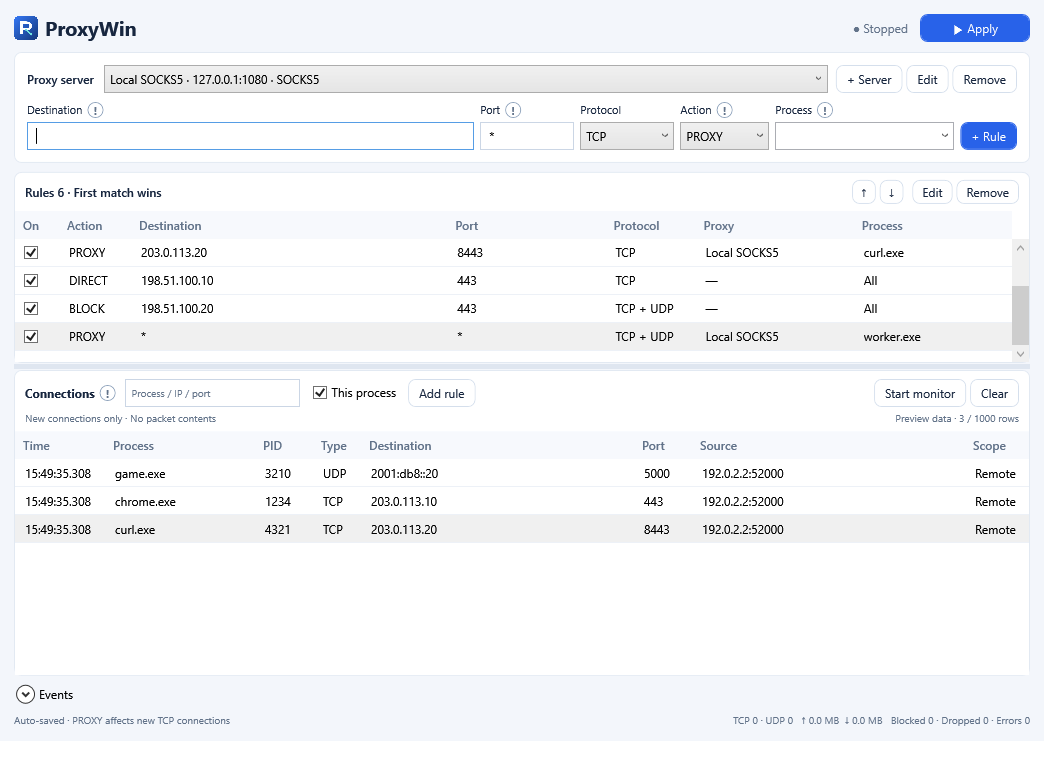
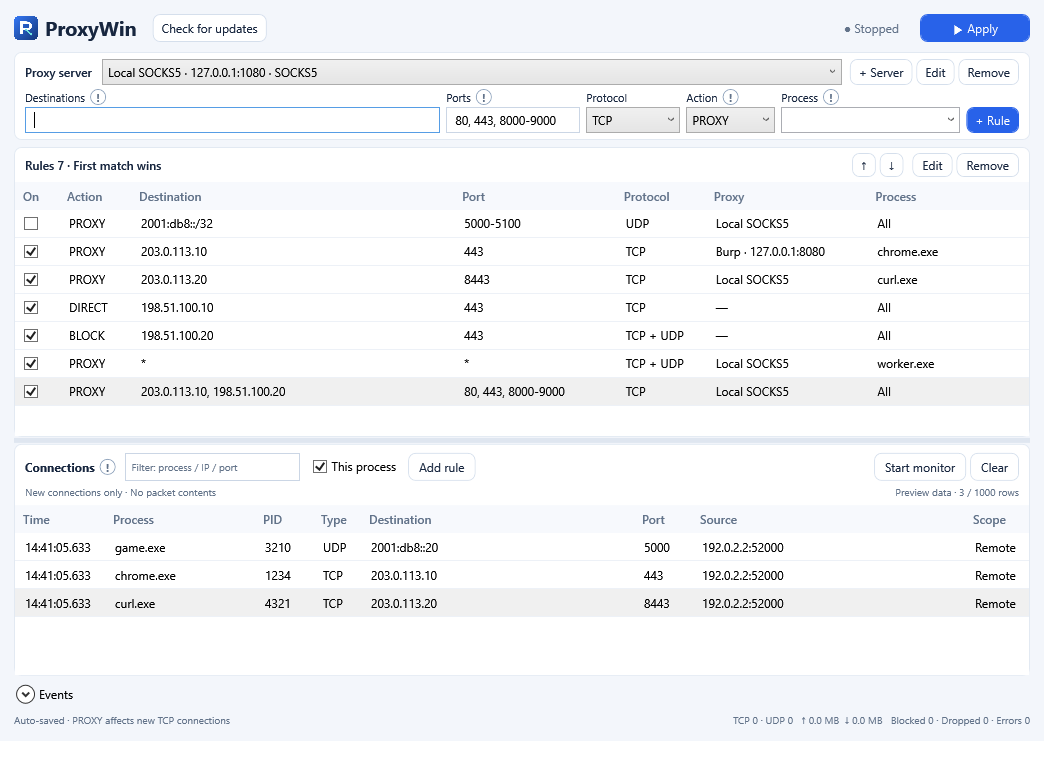
Highlight Active status and expand the rule table with compact inputs (#4)
* Highlight active routing status with a green badge

* Compact rule inputs and give the rule table more space

diff --git a/src/ProxyWin.App/MainWindow.xaml b/src/ProxyWin.App/MainWindow.xaml
@@ -1,37 +1,57 @@
 <Window x:Class="ProxyWin.App.MainWindow" xmlns="http://schemas.microsoft.com/winfx/2006/xaml/presentation" xmlns:x="http://schemas.microsoft.com/winfx/2006/xaml"
         Title="ProxyWin" Width="1060" Height="780" MinWidth="920" MinHeight="680" WindowStartupLocation="CenterScreen" Closing="OnClosing" Style="{StaticResource {x:Type Window}}">
   <Grid Margin="14">
-    <Grid.RowDefinitions><RowDefinition Height="Auto" /><RowDefinition Height="Auto" /><RowDefinition Height="*" MinHeight="100" /><RowDefinition Height="7" /><RowDefinition Height="1.6*" MinHeight="185" /><RowDefinition Height="Auto" /><RowDefinition Height="Auto" /></Grid.RowDefinitions>
+    <Grid.RowDefinitions><RowDefinition Height="Auto" /><RowDefinition Height="Auto" /><RowDefinition Height="1.25*" MinHeight="100" /><RowDefinition Height="7" /><RowDefinition Height="*" MinHeight="185" /><RowDefinition Height="Auto" /><RowDefinition Height="Auto" /></Grid.RowDefinitions>
     <DockPanel Margin="0,0,0,10">
-      <StackPanel DockPanel.Dock="Right" Orientation="Horizontal" HorizontalAlignment="Right"><TextBlock x:Name="StatusText" Text="● Stopped" Foreground="{StaticResource Muted}" VerticalAlignment="Center" Margin="0,0,12,0" /><Button x:Name="ToggleButton" Content="▶ Apply" Style="{StaticResource Primary}" Click="ToggleEngine" MinWidth="110" /></StackPanel>
+      <StackPanel DockPanel.Dock="Right" Orientation="Horizontal" HorizontalAlignment="Right">
+        <Border x:Name="StatusBadge" CornerRadius="12" Padding="10,4" BorderThickness="1" VerticalAlignment="Center" Margin="0,0,10,0">
+          <Border.Style><Style TargetType="Border">
+            <Setter Property="Background" Value="Transparent" /><Setter Property="BorderBrush" Value="Transparent" />
+            <Setter Property="TextElement.Foreground" Value="{StaticResource Muted}" /><Setter Property="TextElement.FontWeight" Value="Normal" />
+            <Style.Triggers>
+              <DataTrigger Binding="{Binding Text, ElementName=StatusText}" Value="● Active">
+                <Setter Property="Background" Value="#DCFCE7" /><Setter Property="BorderBrush" Value="#86EFAC" />
+                <Setter Property="TextElement.Foreground" Value="#166534" /><Setter Property="TextElement.FontWeight" Value="Bold" />
+              </DataTrigger>
+            </Style.Triggers>
+          </Style></Border.Style>
+          <TextBlock x:Name="StatusText" Text="● Stopped" VerticalAlignment="Center" />
+        </Border>
+        <Button x:Name="ToggleButton" Content="▶ Apply" Style="{StaticResource Primary}" Click="ToggleEngine" MinWidth="110" />
+      </StackPanel>
       <StackPanel Orientation="Horizontal"><Image Source="/Assets/ProxyWin.png" Width="24" Height="24" Margin="0,0,7,0" /><TextBlock Text="ProxyWin" FontSize="20" FontWeight="Bold" VerticalAlignment="Center" /><Button x:Name="UpdateButton" Content="Check for updates" Click="CheckUpdates" Margin="16,0,0,0" Padding="8,3" ToolTip="Check GitHub for a new release." /></StackPanel>
     </DockPanel>
-    <Border Grid.Row="1" x:Name="EditorPanel" Style="{StaticResource Card}" Margin="0,0,0,9">
+    <Border Grid.Row="1" x:Name="EditorPanel" Style="{StaticResource Card}" Padding="10,6" Margin="0,0,0,7">
+      <Border.Resources>
+        <Style TargetType="TextBox" BasedOn="{StaticResource {x:Type TextBox}}"><Setter Property="Padding" Value="6,2" /><Setter Property="MinHeight" Value="26" /></Style>
+        <Style TargetType="ComboBox" BasedOn="{StaticResource {x:Type ComboBox}}"><Setter Property="Padding" Value="6,2" /><Setter Property="MinHeight" Value="26" /></Style>
+        <Style TargetType="Button" BasedOn="{StaticResource {x:Type Button}}"><Setter Property="Padding" Value="8,3" /><Setter Property="MinHeight" Value="26" /></Style>
+      </Border.Resources>
       <Grid><Grid.RowDefinitions><RowDefinition Height="Auto" /><RowDefinition Height="Auto" /></Grid.RowDefinitions>
-        <DockPanel Margin="0,0,0,9">
+        <DockPanel Margin="0,0,0,4">
           <StackPanel Orientation="Horizontal" DockPanel.Dock="Right" Margin="8,0,0,0"><Button Content="+ Server" Click="AddProxy" Margin="0,0,4,0" /><Button Content="Edit" Click="EditProxy" Margin="0,0,4,0" /><Button Content="Remove" Click="DeleteProxy" /></StackPanel>
           <TextBlock Text="Proxy server" FontWeight="SemiBold" VerticalAlignment="Center" Margin="0,0,10,0" />
           <ComboBox x:Name="ProxyBox" DisplayMemberPath="Summary" SelectedValuePath="Id" SelectionChanged="SelectionChanged" ToolTip="Server used by PROXY rules." />
         </DockPanel>
         <Grid Grid.Row="1"><Grid.ColumnDefinitions><ColumnDefinition /><ColumnDefinition Width="140" /><ColumnDefinition Width="100" /><ColumnDefinition Width="95" /><ColumnDefinition Width="185" /><ColumnDefinition Width="Auto" /></Grid.ColumnDefinitions>
           <Grid.RowDefinitions><RowDefinition Height="Auto" /><RowDefinition Height="Auto" /></Grid.RowDefinitions>
-          <StackPanel Orientation="Horizontal" Margin="0,0,0,4"><TextBlock Text="Destinations" FontSize="11" VerticalAlignment="Center" /><Button Style="{StaticResource Help}" AutomationProperties.Name="Destination help" ToolTip="Separate IPs, CIDRs or domains with commas. Domains become their current IPv4/IPv6 addresses when saved; they do not refresh automatically. Re-enter the domain to refresh. Use * alone for all non-loopback destinations." /></StackPanel>
-          <StackPanel Grid.Column="1" Orientation="Horizontal" Margin="0,0,0,4"><TextBlock Text="Ports" FontSize="11" VerticalAlignment="Center" /><Button Style="{StaticResource Help}" AutomationProperties.Name="Port help" ToolTip="Separate ports or ranges with commas: 80, 443, 8000-9000. Each listed destination uses this port list. Use * alone for all ports." /></StackPanel>
-          <TextBlock Grid.Column="2" Text="Protocol" FontSize="11" Margin="0,0,0,4" VerticalAlignment="Center" />
-          <StackPanel Grid.Column="3" Orientation="Horizontal" Margin="0,0,0,4"><TextBlock Text="Action" FontSize="11" VerticalAlignment="Center" /><Button Style="{StaticResource Help}" AutomationProperties.Name="Action help" ToolTip="First match wins. DIRECT passes traffic, PROXY uses the selected server, BLOCK drops packets. PROXY affects new TCP connections. HTTP proxies support TCP only." /></StackPanel>
-          <StackPanel Grid.Column="4" Orientation="Horizontal" Margin="0,0,0,4"><TextBlock Text="Process" FontSize="11" VerticalAlignment="Center" /><Button Style="{StaticResource Help}" AutomationProperties.Name="Process help" ToolTip="Search, then select an exact executable name. Blank means all processes. Names apply to all instances, not a single PID. Destination * and port * cover that process's non-loopback traffic. Broad rules inspect more connections." /></StackPanel>
+          <StackPanel Orientation="Horizontal" Margin="0,0,0,2"><TextBlock Text="Destinations" FontSize="11" VerticalAlignment="Center" /><Button Style="{StaticResource Help}" AutomationProperties.Name="Destination help" ToolTip="Separate IPs, CIDRs or domains with commas. Domains become their current IPv4/IPv6 addresses when saved; they do not refresh automatically. Re-enter the domain to refresh. Use * alone for all non-loopback destinations." /></StackPanel>
+          <StackPanel Grid.Column="1" Orientation="Horizontal" Margin="0,0,0,2"><TextBlock Text="Ports" FontSize="11" VerticalAlignment="Center" /><Button Style="{StaticResource Help}" AutomationProperties.Name="Port help" ToolTip="Separate ports or ranges with commas: 80, 443, 8000-9000. Each listed destination uses this port list. Use * alone for all ports." /></StackPanel>
+          <TextBlock Grid.Column="2" Text="Protocol" FontSize="11" Margin="0,0,0,2" VerticalAlignment="Center" />
+          <StackPanel Grid.Column="3" Orientation="Horizontal" Margin="0,0,0,2"><TextBlock Text="Action" FontSize="11" VerticalAlignment="Center" /><Button Style="{StaticResource Help}" AutomationProperties.Name="Action help" ToolTip="First match wins. DIRECT passes traffic, PROXY uses the selected server, BLOCK drops packets. PROXY affects new TCP connections. HTTP proxies support TCP only." /></StackPanel>
+          <StackPanel Grid.Column="4" Orientation="Horizontal" Margin="0,0,0,2"><TextBlock Text="Process" FontSize="11" VerticalAlignment="Center" /><Button Style="{StaticResource Help}" AutomationProperties.Name="Process help" ToolTip="Search, then select an exact executable name. Blank means all processes. Names apply to all instances, not a single PID. Destination * and port * cover that process's non-loopback traffic. Broad rules inspect more connections." /></StackPanel>
           <TextBox Grid.Row="1" x:Name="TargetBox" Margin="0,0,6,0" MaxLength="8192" ToolTip="IPs / CIDRs / domains, or * alone. Example: example.com, 203.0.113.10. Domains are converted to IPs on save." />
           <TextBox Grid.Row="1" Grid.Column="1" x:Name="PortBox" Text="*" Margin="0,0,6,0" MaxLength="4096" ToolTip="Comma-separated ports / ranges, or * alone. Example: 80, 443, 8000-9000" />
           <ComboBox Grid.Row="1" Grid.Column="2" x:Name="ProtocolBox" SelectedIndex="0" Margin="0,0,6,0"><ComboBoxItem Content="TCP" /><ComboBoxItem Content="UDP" /><ComboBoxItem Content="TCP + UDP" /></ComboBox>
           <ComboBox Grid.Row="1" Grid.Column="3" x:Name="ActionBox" SelectedIndex="1" SelectionChanged="ActionChanged" Margin="0,0,6,0"><ComboBoxItem Content="DIRECT" /><ComboBoxItem Content="PROXY" /><ComboBoxItem Content="BLOCK" /></ComboBox>
           <ComboBox Grid.Row="1" Grid.Column="4" x:Name="ProcessBox" IsEditable="True" IsTextSearchEnabled="False" StaysOpenOnEdit="True" MaxDropDownHeight="260" DropDownOpened="OpenProcessPicker" Margin="0,0,6,0" ToolTip="Search by name, then select an executable. Blank = all processes." />
-          <Button Grid.Row="1" Grid.Column="5" Content="+ Rule" Style="{StaticResource Primary}" Click="AddTarget" />
+          <Button Grid.Row="1" Grid.Column="5" Content="+ Rule" Style="{StaticResource Primary}" Padding="8,3" MinHeight="26" Click="AddTarget" />
         </Grid>
       </Grid>
     </Border>
     <Border Grid.Row="2" x:Name="RulePanel" Style="{StaticResource Card}" Padding="0"><Grid>
       <Grid.RowDefinitions><RowDefinition Height="Auto" /><RowDefinition /></Grid.RowDefinitions>
-      <DockPanel Margin="10,7"><TextBlock x:Name="RuleCount" Text="Rules 0" FontWeight="SemiBold" VerticalAlignment="Center" /><StackPanel Orientation="Horizontal" HorizontalAlignment="Right"><Button Content="↑" Click="MoveRuleUp" Padding="8,3" Margin="0,0,4,0" ToolTip="Move up" /><Button Content="↓" Click="MoveRuleDown" Padding="8,3" Margin="0,0,9,0" ToolTip="Move down" /><Button Content="Edit" Click="EditRule" Padding="9,3" Margin="0,0,4,0" /><Button Content="Remove" Click="DeleteRule" Padding="9,3" /></StackPanel></DockPanel>
+      <DockPanel Margin="10,5"><TextBlock x:Name="RuleCount" Text="Rules 0" FontWeight="SemiBold" VerticalAlignment="Center" /><StackPanel Orientation="Horizontal" HorizontalAlignment="Right"><Button Content="↑" Click="MoveRuleUp" Padding="8,3" Margin="0,0,4,0" ToolTip="Move up" /><Button Content="↓" Click="MoveRuleDown" Padding="8,3" Margin="0,0,9,0" ToolTip="Move down" /><Button Content="Edit" Click="EditRule" Padding="9,3" Margin="0,0,4,0" /><Button Content="Remove" Click="DeleteRule" Padding="9,3" /></StackPanel></DockPanel>
       <DataGrid x:Name="RulesGrid" Grid.Row="1" MouseDoubleClick="EditRule"><DataGrid.Columns>
         <DataGridTemplateColumn Header="On" Width="44"><DataGridTemplateColumn.CellTemplate><DataTemplate><CheckBox IsChecked="{Binding Enabled, Mode=OneWay}" Click="ToggleRule" VerticalAlignment="Center" /></DataTemplate></DataGridTemplateColumn.CellTemplate></DataGridTemplateColumn>
         <DataGridTextColumn Header="Action" Binding="{Binding ActionLabel}" Width="72" /><DataGridTextColumn Header="Destination" Binding="{Binding Destinations}" Width="2*" /><DataGridTextColumn Header="Port" Binding="{Binding Ports}" Width="*" /><DataGridTextColumn Header="Protocol" Binding="{Binding NetworkLabel}" Width="90" /><DataGridTextColumn Header="Proxy" Binding="{Binding TargetName}" Width="*" /><DataGridTextColumn Header="Process" Binding="{Binding ProcessLabel}" Width="*" />
@@ -53,7 +73,7 @@
         <DataGridTextColumn Header="Time" Binding="{Binding TimeLabel}" SortMemberPath="Time" Width="90" /><DataGridTextColumn Header="Process" Binding="{Binding ProcessLabel}" Width="150" /><DataGridTextColumn Header="PID" Binding="{Binding ProcessId}" Width="58" /><DataGridTextColumn Header="Type" Binding="{Binding NetworkLabel}" Width="48" /><DataGridTextColumn Header="Destination" Binding="{Binding Destination}" Width="*" /><DataGridTextColumn Header="Port" Binding="{Binding RemotePort}" Width="58" /><DataGridTextColumn Header="Source" Binding="{Binding LocalEndpoint}" Width="*" /><DataGridTextColumn Header="Scope" Binding="{Binding ScopeLabel}" Width="64" />
       </DataGrid.Columns></DataGrid>
     </Grid></Border>
-    <Expander Grid.Row="5" Header="Events" Margin="0,7,0,0"><DockPanel Margin="0,5,0,0"><Button Content="Clear" Click="ClearLogs" DockPanel.Dock="Right" VerticalAlignment="Top" Margin="7,0,0,0" /><ListBox x:Name="LogList" Height="80" FontFamily="Consolas, Malgun Gothic" FontSize="11" BorderBrush="#DFE5EF" VirtualizingPanel.IsVirtualizing="True" /></DockPanel></Expander>
+    <Expander x:Name="EventsPanel" Grid.Row="5" Header="Events" Margin="0,7,0,0"><DockPanel Margin="0,5,0,0"><Button Content="Clear" Click="ClearLogs" DockPanel.Dock="Right" VerticalAlignment="Top" Margin="7,0,0,0" /><ListBox x:Name="LogList" Height="80" FontFamily="Consolas, Malgun Gothic" FontSize="11" BorderBrush="#DFE5EF" VirtualizingPanel.IsVirtualizing="True" /></DockPanel></Expander>
     <DockPanel Grid.Row="6" Margin="0,8,0,0"><TextBlock x:Name="FooterText" Foreground="{StaticResource Muted}" FontSize="10" /><TextBlock x:Name="StatsText" Text="TCP 0 · UDP 0" HorizontalAlignment="Right" Foreground="{StaticResource Muted}" FontSize="10" /></DockPanel>
   </Grid>
 </Window>

diff --git a/src/ProxyWin.App/App.xaml.cs b/src/ProxyWin.App/App.xaml.cs
@@ -69,6 +69,21 @@ public partial class App : Application
                 smoke.Width = smoke.MinWidth; smoke.Height = smoke.MinHeight;
                 await smoke.Dispatcher.InvokeAsync(() => { }, DispatcherPriority.ApplicationIdle);
                 Capture(smoke, Path.Combine(output, "main-compact.png"));
+                var statusPreview = (TextBlock)smoke.FindName("StatusText");
+                var togglePreview = (Button)smoke.FindName("ToggleButton");
+                var originalStatus = statusPreview.Text; var originalToggle = togglePreview.Content;
+                foreach (var (status, label, file) in new[] { ("● Active", "■ Stop", "status-active.png"), ("● Working", "Working…", "status-working.png") })
+                {
+                    statusPreview.Text = status; togglePreview.Content = label;
+                    await smoke.Dispatcher.InvokeAsync(() => { }, DispatcherPriority.ApplicationIdle);
+                    Capture(smoke, Path.Combine(output, file));
+                }
+                statusPreview.Text = originalStatus; togglePreview.Content = originalToggle;
+                var eventsPreview = (Expander)smoke.FindName("EventsPanel");
+                eventsPreview.IsExpanded = true;
+                await smoke.Dispatcher.InvokeAsync(() => { }, DispatcherPriority.ApplicationIdle);
+                Capture(smoke, Path.Combine(output, "main-events-expanded.png"));
+                eventsPreview.IsExpanded = false;
                 var proxy = new ProxyDialog(null) { Owner = smoke };
                 proxy.Show();
                 await proxy.Dispatcher.InvokeAsync(() => { }, DispatcherPriority.ApplicationIdle);
@@ -118,6 +133,12 @@ public partial class App : Application
 
     private static void Capture(Window window, string path)
     {
+        if (window is MainWindow main)
+        {
+            var measurements = new[] { "EditorPanel", "RulesGrid", "ObservationGrid", "EventsPanel" }
+                .ToDictionary(name => name, name => new { Width = ((FrameworkElement)main.FindName(name)).ActualWidth, Height = ((FrameworkElement)main.FindName(name)).ActualHeight });
+            File.WriteAllText(Path.ChangeExtension(path, ".layout.json"), System.Text.Json.JsonSerializer.Serialize(measurements));
+        }
         var bitmap = new RenderTargetBitmap((int)window.ActualWidth, (int)window.ActualHeight, 96, 96, PixelFormats.Pbgra32);
         bitmap.Render(window);
         var encoder = new PngBitmapEncoder();
